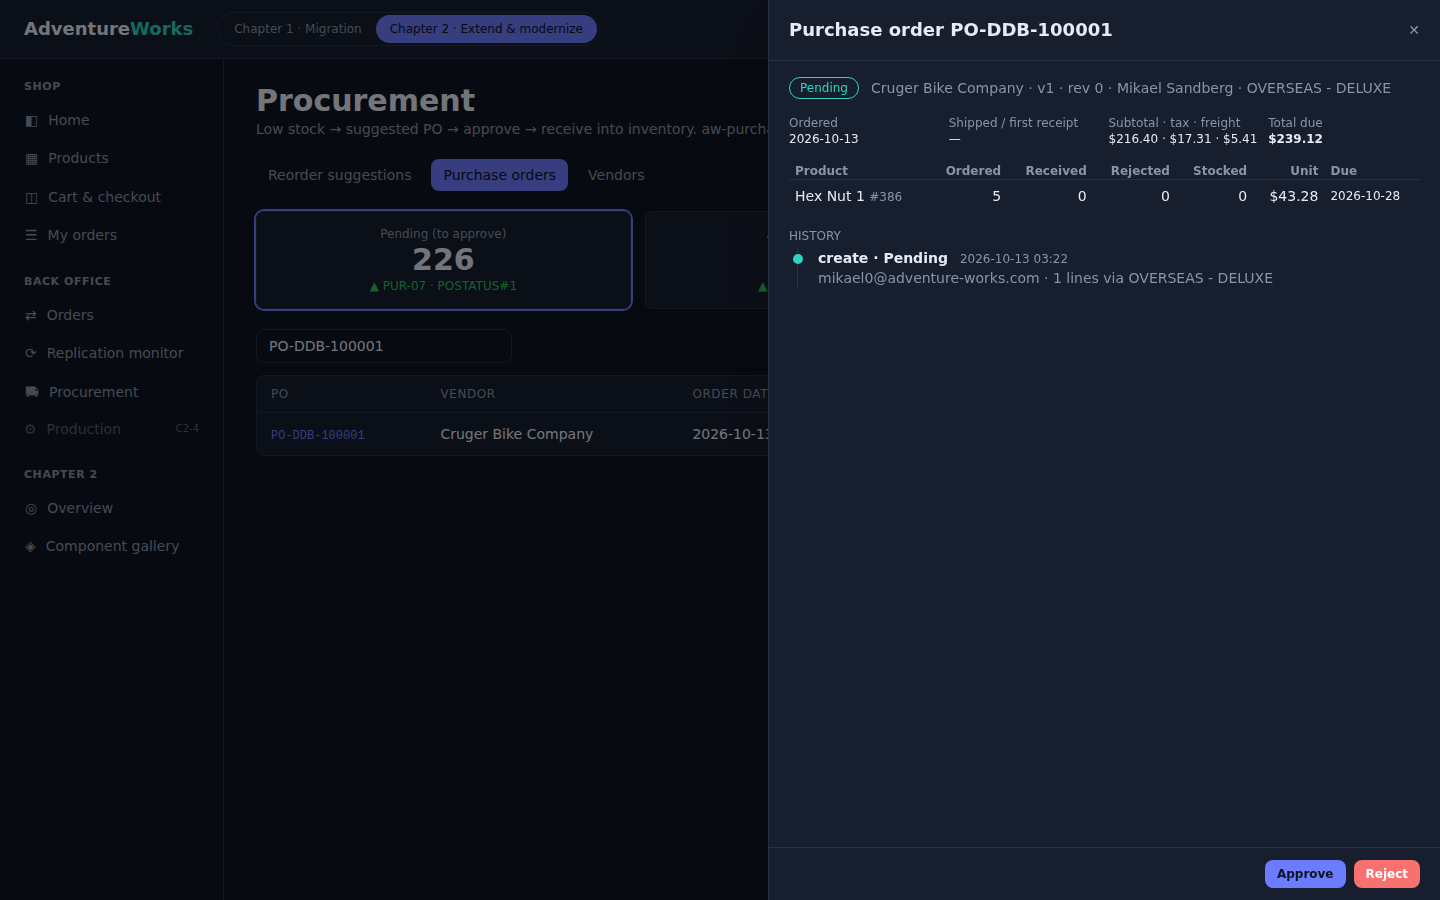
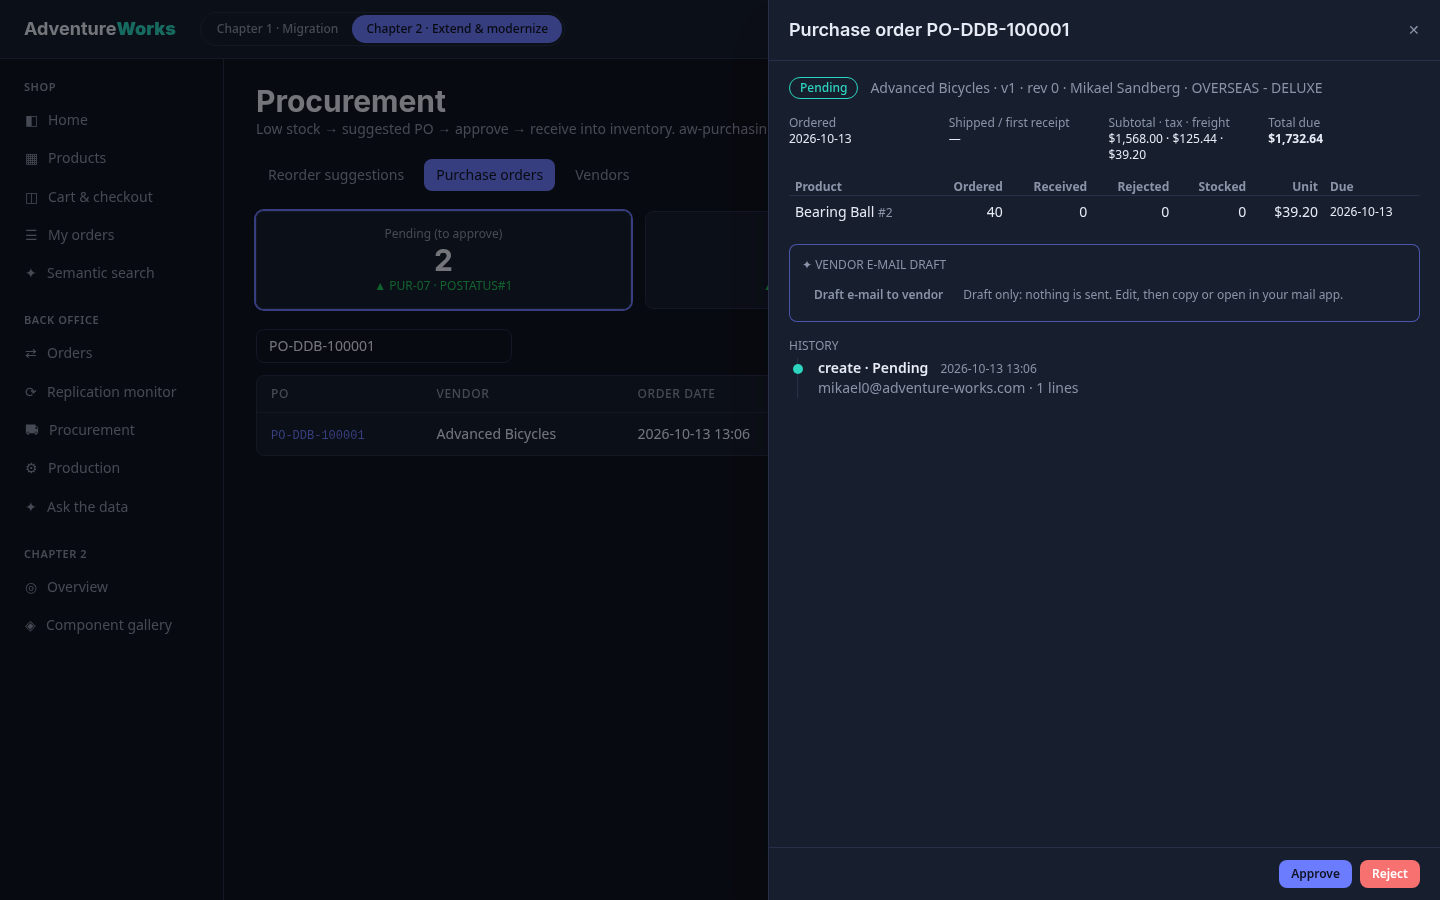
C2-6 smart reorder UI: forecast column + chart + explain, use forecast quantities, PO e-mail draft; mocks, e2e, screenshots

diff --git a/src/web/src/pages/backoffice/Procurement.tsx b/src/web/src/pages/backoffice/Procurement.tsx
@@ -1,7 +1,10 @@
 import { useMemo, useState } from 'react'
+import { CartesianGrid, Line, LineChart, ResponsiveContainer, Tooltip, XAxis, YAxis } from 'recharts'
 import { NavLink, Route, Routes } from 'react-router'
 import { useAuth } from '../../api/auth'
-import { api, ApiError, hasRole, money, type PurchaseOrder, type PurchaseOrderSummary, type ReorderSuggestion, type VendorProduct, type VendorSummary } from '../../api/client'
+import { AssistBox, plain } from '../ai/AssistPanel'
+import { cssVar } from '../../theme/tokens'
+import { api, ApiError, hasRole, money, type AssistResult, type SmartSuggestion, type PurchaseOrder, type PurchaseOrderSummary, type ReorderSuggestion, type VendorProduct, type VendorSummary } from '../../api/client'
 import { useLoad } from '../../api/useLoad'
 import { Button, DataTable, Drawer, EmptyState, KpiCard, PageHeader, SelectField, StatusPill, Timeline, useToast, type Column, type Tone } from '../../components'
 
@@ -45,6 +48,10 @@ type Draft = Record<number, { qty: number; on: boolean }>
 function Suggestions() {
   const s = useLoad(() => api.suggestions())
   const methods = useLoad(() => api.shipMethods())
+  const ai = useLoad(() => api.aiStatus(), [])
+  const smart = useLoad(async () => (ai.data?.enabled ? await api.smartSuggestions() : []), [ai.data?.enabled])
+  const smartBy = useMemo(() => new Map((smart.data ?? []).map(x => [x.rule.productId, x])), [smart.data])
+  const [why, setWhy] = useState<number>()
   const [draft, setDraft] = useState<Draft>({})
   const [busy, setBusy] = useState<number>()
   const [created, setCreated] = useState<number>()
@@ -79,8 +86,16 @@ function Suggestions() {
         <KpiCard label="Made in house" value={String(rows.filter(r => r.vendors.length === 0).length)} delta="production floor · C2-4" />
       </div>
       {s.loading && <p className="text-mute">Loading…</p>}
+      {ai.data?.enabled && smartBy.size > 0 && (
+        <div className="mb-4 flex items-center gap-3 rounded-aw border border-accent/60 bg-panel px-4 py-3 text-sm" data-testid="smart-bar">
+          <span className="text-xs uppercase text-mute">✦ Smart reorder</span>
+          <span className="text-mute">Forecast column = safety stock + forecast demand over the vendor lead time − on hand − on order (INV-07). The reorder rule stays the default.</span>
+          <Button size="sm" className="ml-auto" data-testid="use-forecast" onClick={() => setDraft(d => {
+            const n = { ...d }; for (const x of smartBy.values()) if (x.smartQty > 0) n[x.rule.productId] = { qty: x.smartQty, on: true }; return n })}>Use forecast quantities</Button>
+        </div>)}
+      {why !== undefined && smartBy.get(why) && <SmartWhy s={smartBy.get(why)!} onClose={() => setWhy(undefined)} />}
       <div className="flex flex-col gap-4" data-testid="suggestions">
-        {groups.map(g => <VendorGroup key={g.vendor.vendorId} g={g} line={line} set={set} busy={busy === g.vendor.vendorId}
+        {groups.map(g => <VendorGroup key={g.vendor.vendorId} g={g} line={line} set={set} busy={busy === g.vendor.vendorId} smart={smartBy} onWhy={setWhy}
           methods={methods.data ?? []} onCreate={(m) => create(g.vendor.vendorId, g.items, m)} />)}
         {!s.loading && groups.length === 0 && <EmptyState title="Nothing to order">Every product below its reorder point is covered by open purchase orders.</EmptyState>}
       </div>
@@ -94,7 +109,32 @@ function Suggestions() {
   )
 }
 
-function VendorGroup({ g, line, set, busy, methods, onCreate }: {
+function SmartWhy({ s, onClose }: { s: SmartSuggestion; onClose: () => void }) {
+  const [r, setR] = useState<AssistResult | null>(null)
+  const [busy, setBusy] = useState(false)
+  const f = s.forecast
+  const data = [...f.history.slice(-24).map(h => ({ month: h.month, actual: h.qty, forecast: null as number | null })),
+    ...f.next.map(n => ({ month: n.month, actual: null as number | null, forecast: n.qty }))]
+  return (
+    <section className="mb-4 rounded-aw border border-line bg-panel p-4" aria-label={`Forecast for ${s.rule.name}`} data-testid="smart-why">
+      <header className="mb-2 flex items-center gap-3"><b>{s.rule.name}</b>
+        <span className="text-xs text-mute">{f.method} · monthly {f.monthly} · 12-month baseline {f.baseline} · growth ×{f.growth} · lead time {f.leadTimeDays} d → {f.leadTimeDemand} units</span>
+        <Button size="sm" variant="ghost" className="ml-auto" onClick={onClose}>Close</Button></header>
+      <div className="h-48" data-testid="forecast-chart">
+        <ResponsiveContainer><LineChart data={data}><CartesianGrid strokeDasharray="3 3" stroke={cssVar('line')} /><XAxis dataKey="month" tick={{ fontSize: 10 }} /><YAxis tick={{ fontSize: 10 }} /><Tooltip />
+          <Line dataKey="actual" name="units sold" stroke={cssVar('accent')} dot={false} isAnimationActive={false} />
+          <Line dataKey="forecast" name="forecast" stroke={cssVar('warn')} strokeDasharray="4 3" isAnimationActive={false} /></LineChart></ResponsiveContainer>
+      </div>
+      <AssistBox title="Why this quantity" r={r}>
+        <div className="flex gap-2"><Button size="sm" variant="ghost" disabled={busy} data-testid="explain-reorder"
+          onClick={async () => { setBusy(true); try { setR(await api.explainReorder(s.rule.productId)) } finally { setBusy(false) } }}>Explain</Button>
+          <span className="self-center text-xs text-mute">Rule {s.rule.suggestedQty} · forecast {s.smartQty} · {s.reason}</span></div>
+      </AssistBox>
+    </section>)
+}
+
+function VendorGroup({ g, line, set, busy, methods, onCreate, smart, onWhy }: {
+  smart: Map<number, SmartSuggestion>; onWhy: (id: number) => void
   g: { vendor: VendorProduct; items: ReorderSuggestion[] }; line: (r: ReorderSuggestion) => { qty: number; on: boolean }
   set: (id: number, v: Partial<{ qty: number; on: boolean }>, r: ReorderSuggestion) => void; busy: boolean
   methods: { id: number; name: string }[]; onCreate: (shipMethodId: number) => void
@@ -114,7 +154,7 @@ function VendorGroup({ g, line, set, busy, methods, onCreate }: {
       </header>
       <table className="w-full text-sm">
         <thead><tr className="text-left text-xs text-mute"><th className="w-8 px-4 py-2" /><th>Product</th><th className="text-right">On hand</th><th className="text-right">Reorder pt</th>
-          <th className="text-right">Safety stock</th><th className="text-right">On order</th><th className="text-right">Unit price</th><th className="w-28 px-4 text-right">Qty</th><th className="px-4">Note</th></tr></thead>
+          <th className="text-right">Safety stock</th><th className="text-right">On order</th><th className="text-right">Unit price</th>{smart.size > 0 && <th className="text-right">Forecast</th>}<th className="w-28 px-4 text-right">Qty</th><th className="px-4">Note</th></tr></thead>
         <tbody>
           {g.items.map(r => (
             <tr key={r.productId} className="border-t border-line" data-testid="suggestion">
@@ -122,6 +162,8 @@ function VendorGroup({ g, line, set, busy, methods, onCreate }: {
               <td>{r.name} <span className="font-mono text-xs text-mute">{r.productNumber}</span>{r.vendors.length > 1 && <span className="text-xs text-mute"> · {r.vendors.length} vendors</span>}</td>
               <td className="text-right text-warn">{r.stockQty}</td><td className="text-right">{r.reorderPoint}</td><td className="text-right">{r.safetyStockLevel}</td>
               <td className="text-right">{r.onOrder}</td><td className="text-right">{money.format(r.vendor?.standardPrice ?? 0)}</td>
+              {smart.size > 0 && <td className="text-right">{smart.get(r.productId) ? <button type="button" className="font-mono text-accent underline-offset-2 hover:underline" data-testid="smart-qty"
+                title={smart.get(r.productId)!.reason} onClick={() => onWhy(r.productId)}>{smart.get(r.productId)!.smartQty}</button> : '—'}</td>}
               <td className="px-4 text-right"><input aria-label={`Quantity for ${r.name}`} type="number" min={1} value={line(r).qty}
                 onChange={e => set(r.productId, { qty: Math.max(0, Number(e.target.value)) }, r)} className="w-20 rounded-aw border border-line bg-bg px-2 py-1 text-right" /></td>
               <td className="px-4 text-xs text-mute">{r.note}</td>
@@ -196,6 +238,15 @@ export function PoDrawer({ id, onClose, onChanged }: { id: number; onClose: () =
   }
   const setLine = (detail: number, k: 'rcv' | 'rej' | 'loc', v: string) => setRcv(x => ({ ...x, [detail]: { ...{ rcv: '', rej: '', loc: '' }, ...x[detail], [k]: v } }))
   const actions = o?.actions ?? []
+  const ai = useLoad(() => api.aiStatus(), [])
+  const [mail, setMail] = useState<AssistResult | null>(null)
+  const [mailText, setMailText] = useState('')
+  const draftMail = async () => {
+    setBusy(true)
+    try { const r = await api.poEmailDraft(id); setMail(r); setMailText(plain(r.text)) } catch (e) { toast(e instanceof ApiError ? e.message : 'Draft failed', 'error') } finally { setBusy(false) }
+  }
+  const subject = mailText.match(/^Subject: (.*)$/m)?.[1] ?? `Purchase order ${o?.number ?? ''}`
+  const bodyText = mailText.replace(/^Subject: .*\n+/, '')
   return (
     <Drawer open wide title={o ? `Purchase order ${o.number}` : 'Purchase order'} onClose={onClose}
       footer={o && <>
@@ -235,6 +286,16 @@ export function PoDrawer({ id, onClose, onChanged }: { id: number; onClose: () =
                 </tr>))}
             </tbody>
           </table>
+          {ai.data?.enabled && !o.readOnly && (
+            <AssistBox title="Vendor e-mail draft" r={mail}>
+              <div className="flex gap-2"><Button size="sm" variant="ghost" disabled={busy} onClick={draftMail} data-testid="po-email-draft">Draft e-mail to vendor</Button>
+                <span className="self-center text-xs text-mute">Draft only: nothing is sent. Edit, then copy or open in your mail app.</span></div>
+              {mail?.text && <>
+                <textarea aria-label="E-mail draft" className="rounded-aw border border-line bg-bg p-2 font-mono text-xs text-ink" rows={10} value={mailText} onChange={e => setMailText(e.target.value)} data-testid="po-email-text" />
+                <div className="flex gap-2"><Button size="sm" variant="ghost" onClick={() => { void navigator.clipboard?.writeText(mailText); toast('Copied', 'ok') }} data-testid="po-email-copy">Copy</Button>
+                  <a className="rounded-aw border border-line px-3 py-1 text-sm" href={`mailto:?subject=${encodeURIComponent(subject)}&body=${encodeURIComponent(bodyText)}`} data-testid="po-email-mailto">Open in mail app</a></div>
+              </>}
+            </AssistBox>)}
           {receiving && <p className="text-xs text-mute">One transaction: PO lines (received / rejected / stocked) + stock per location (INV-01) + stock total and REORDER marker (INV-02) + TransactionHistory type P (INV-03).</p>}
           {(o.events ?? []).length > 0 && (
             <div><div className="mb-1 text-xs text-mute uppercase">History</div>

diff --git a/src/web/e2e/mockProcurement.ts b/src/web/e2e/mockProcurement.ts
@@ -26,6 +26,28 @@ const low = [
   { productId: 994, name: 'LL Bottom Bracket', stockQty: 0, reorderPoint: 375, safetyStockLevel: 500, vendors: [] },
 ]
 
+// C2-6 smart reorder stand-in: 24 months of seasonal history per product, forecast = 0.5·last year·growth + 0.5·3-month mean.
+const history = (pid: number) => Array.from({ length: 24 }, (_, i) => {
+  const d = new Date(Date.UTC(2012, 6 + i, 1)); return { month: d.toISOString().slice(0, 7), qty: Math.round((pid % 7 + 4) * 10 * (1 + 0.35 * Math.sin((i + pid) / 1.9)) * (1 + i / 30)), orders: 10 + (i % 5) } })
+function forecastOf(pid: number, lead: number) {
+  const h = history(pid); const y = h.map(x => x.qty); const n = y.length
+  const last3 = y.slice(n - 3).reduce((a, b) => a + b, 0); const same3 = y.slice(n - 15, n - 12).reduce((a, b) => a + b, 0)
+  const g = Math.min(2, Math.max(0.5, last3 / same3)); const step = (w: number[]) => 0.5 * w[w.length - 12] * g + 0.5 * (w.slice(-3).reduce((a, b) => a + b, 0) / 3)
+  const monthly = +step(y).toFixed(1); const w = [...y]; const next = [1, 2, 3].map(k => { const f = +step(w).toFixed(1); w.push(f); const d = new Date(Date.UTC(2014, 5 + k, 1)); return { month: d.toISOString().slice(0, 7), qty: f } })
+  return { productId: pid, history: h, next, monthly, baseline: +(y.slice(-12).reduce((a, b) => a + b, 0) / 12).toFixed(1), growth: +g.toFixed(2), last3, same3LastYear: same3,
+    leadTimeDays: lead, leadTimeDemand: +(monthly * lead / 30).toFixed(1), method: 'seasonal naive with trend (0.5·last year·growth + 0.5·3-month mean)' }
+}
+type Sug = { productId: number; stockQty: number; safetyStockLevel: number; onOrder: number; suggestedQty: number; note: string | null; vendor: { averageLeadTime: number; minOrderQty: number; maxOrderQty: number } | null }
+function smartOf<T extends Sug>(rule: T) {
+  const f = forecastOf(rule.productId, rule.vendor?.averageLeadTime ?? 30)
+  const need = Math.max(0, Math.ceil(rule.safetyStockLevel + f.leadTimeDemand - rule.stockQty - rule.onOrder))
+  const smartQty = rule.vendor ? Math.min(Math.max(need, need ? rule.vendor.minOrderQty : 0), rule.vendor.maxOrderQty) : 0
+  const reason = !rule.vendor ? (rule.note ?? 'No active vendor') : smartQty > rule.suggestedQty ? 'Forecast demand is above the reorder rule' : smartQty < rule.suggestedQty ? 'Forecast demand is below the reorder rule' : 'Forecast agrees with the reorder rule'
+  return { rule, forecast: f, smartQty, reason }
+}
+const assistOf = (feature: string, kind: string, text: string, facts: Record<string, unknown>) => ({ feature, kind, text, facts,
+  cites: [...text.matchAll(/\[([a-z0-9_.]+)\]/g)].map(m => m[1]), blocked: null, error: null, inputTokens: 610, outputTokens: 90, questionsLeft: 17, tokensLeft: 38000, mode: 'mock' })
+
 export function procurementMock() {
   const pos: Po[] = [
     { id: 4007, number: 'PO004007', vendorId: 1492, vendorName: 'Australia Bike Retailer', employeeId: 251, employeeName: 'Mikael Sandberg', status: 1, statusText: 'Pending', revisionNumber: 4,
@@ -51,6 +73,20 @@ export function procurementMock() {
     const q = p.replace('/back-office/procurement', '')
     const url = new URL(r.request().url())
     if (q === '/suggestions') return json(low.filter(l => stock[l.productId] < l.reorderPoint).map(suggestion))
+    if (q === '/smart-suggestions') return json(low.filter(l => stock[l.productId] < l.reorderPoint).map(l => smartOf(suggestion(l))))
+    const ex = q.match(/^\/smart-suggestions\/(\d+)\/explain$/)
+    if (ex) { const l = low.find(x => x.productId === Number(ex[1])); if (!l) return problem(404, 'Not found'); const s = smartOf(suggestion(l))
+      const facts = { 'suggested.qty': s.smartQty, 'rule.qty': s.rule.suggestedQty, 'forecast.lead_time_days': s.forecast.leadTimeDays, 'forecast.lead_time_demand': s.forecast.leadTimeDemand,
+        'history.last3': s.forecast.last3, 'history.same3_last_year': s.forecast.same3LastYear }
+      return json(assistOf('reorder', 'reorder-explain', `Suggest ${s.smartQty} [suggested.qty]: forecast demand over the ${s.forecast.leadTimeDays}-day lead time is ${Math.round(s.forecast.leadTimeDemand)} [forecast.lead_time_demand] against the reorder rule's ${s.rule.suggestedQty} [rule.qty]. The last 3 months sold ${s.forecast.last3} units vs ${s.forecast.same3LastYear} a year earlier [history.last3] [history.same3_last_year].`, facts)) }
+    const em = q.match(/^\/orders\/(\d+)\/email-draft$/)
+    if (em) { const po = pos.find(x => x.id === Number(em[1])); if (!po) return problem(404, 'Not found')
+      const facts: Record<string, unknown> = { 'po.number': po.number, 'vendor.name': po.vendorName, 'vendor.contact': 'Paula Moberly', 'po.need_by': po.lines[0]?.dueDate.slice(0, 10), 'po.total': +po.totalDue.toFixed(2), 'buyer.name': po.employeeName }
+      po.lines.forEach((l, i) => Object.assign(facts, { [`line${i + 1}.product`]: l.productName, [`line${i + 1}.qty`]: l.orderQty, [`line${i + 1}.unit_price`]: l.unitPrice }))
+      const text = `Subject: Purchase order ${po.number} [po.number]\n\nDear Paula Moberly [vendor.contact],\n\nplease confirm our purchase order ${po.number} to ${po.vendorName} [vendor.name]:\n` +
+        po.lines.map((l, i) => `- ${l.orderQty} x ${l.productName} at ${l.unitPrice.toFixed(2)} [line${i + 1}.qty]\n`).join('') +
+        `\nRequested delivery by ${facts['po.need_by']} [po.need_by]. Order total ${po.totalDue.toFixed(2)} [po.total].\n\nKind regards,\n${po.employeeName} [buyer.name]\nAdventure Works Cycles, purchasing`
+      return json(assistOf('reorder', 'po-email', text, facts)) }
     if (q === '/vendors') return json(vendors)
     if (q === '/locations') return json([[1, 'Tool Crib'], [6, 'Miscellaneous Storage'], [7, 'Finished Goods Storage'], [50, 'Subassembly']].map(([id, n]) => ({ locationId: id, name: n, quantity: 0 })))
     const vd = q.match(/^\/vendors\/(\d+)$/)

diff --git a/src/web/e2e/c2-6.spec.ts b/src/web/e2e/c2-6.spec.ts
@@ -49,3 +49,34 @@ test('triage copilot: explain with cited facts, draft the approve note into the 
   await expect(page.getByTestId('order-note')).not.toHaveValue(/\[/)
   await shot(page, 'triage-note')
 })
+
+test('smart reorder: forecast quantities with a chart and explanation, PO e-mail draft (draft only)', async ({ page }) => {
+  test.setTimeout(150_000)
+  await setup(page)
+  await signIn(page, 'mikael0@adventure-works.com')
+  await page.goto('./back-office/procurement')
+  await expect(page.getByTestId('smart-bar')).toBeVisible({ timeout: 60_000 })
+  const group = page.getByTestId('vendor-group').last()
+  const row = group.getByTestId('suggestion').last()
+  await row.getByTestId('smart-qty').click()
+  await expect(page.getByTestId('forecast-chart')).toBeVisible()
+  await page.getByTestId('explain-reorder').click()
+  await expect(page.getByTestId('smart-why').getByTestId('assist-text')).toContainText('Suggest', { timeout: 30_000 })
+  await shot(page, 'smart-reorder')
+
+  // use the forecast quantities, keep one line (the last group, so the C2-3 spec's first group is untouched) and create the PO
+  await page.getByTestId('use-forecast').click()
+  const smartQty = Number(await row.getByTestId('smart-qty').innerText())
+  if (smartQty > 0) await expect(row.getByRole('spinbutton')).toHaveValue(String(smartQty))
+  const boxes = group.getByRole('checkbox')
+  const n = await boxes.count()
+  for (let i = 0; i < n - 1; i++) await boxes.nth(i).uncheck()
+  await row.getByRole('spinbutton').fill('3')
+  await group.getByTestId('create-po').click()
+  await expect(page.getByRole('status').filter({ hasText: /PO-DDB-\d+ created/ })).toBeVisible()
+  await page.getByTestId('po-email-draft').click()
+  await expect(page.getByTestId('po-email-text')).toHaveValue(/Subject: Purchase order PO-DDB-\d+[\s\S]*Dear /, { timeout: 30_000 })
+  await expect(page.getByTestId('po-email-text')).not.toHaveValue(/\[[a-z0-9_.]+\]/)
+  await expect(page.getByTestId('po-email-mailto')).toHaveAttribute('href', /^mailto:\?subject=Purchase%20order/)
+  await shot(page, 'po-email')
+})

diff --git a/src/web/src/api/client.ts b/src/web/src/api/client.ts
@@ -44,6 +44,8 @@ export type AskResult = S['AskResult']
 export type SearchResult = S['SearchResult']
 export type SearchHit = S['SearchHit']
 export type AssistResult = S['AssistResult']
+export type SmartSuggestion = S['SmartSuggestion']
+export type DemandForecast = S['DemandForecast']
 export type Problem = { title: string; status: number; detail?: string }
 
 export class ApiError extends Error {
@@ -95,6 +97,9 @@ export const api = {
   changes: (limit = 50) => ok(http.GET('/api/v2/back-office/changes', { params: { query: { limit } } })),
   // C2-3 procurement
   suggestions: () => ok(http.GET('/api/v2/back-office/procurement/suggestions')),
+  smartSuggestions: () => ok(http.GET('/api/v2/back-office/procurement/smart-suggestions')),
+  explainReorder: (id: number) => ok(http.POST('/api/v2/back-office/procurement/smart-suggestions/{id}/explain', { params: { path: { id } } })),
+  poEmailDraft: (id: number) => ok(http.POST('/api/v2/back-office/procurement/orders/{id}/email-draft', { params: { path: { id } } })),
   vendors: () => ok(http.GET('/api/v2/back-office/procurement/vendors')),
   vendor: (id: number) => ok(http.GET('/api/v2/back-office/procurement/vendors/{id}', { params: { path: { id } } })),
   pos: (status: number) => ok(http.GET('/api/v2/back-office/procurement/purchase-orders', { params: { query: { status } } })),
